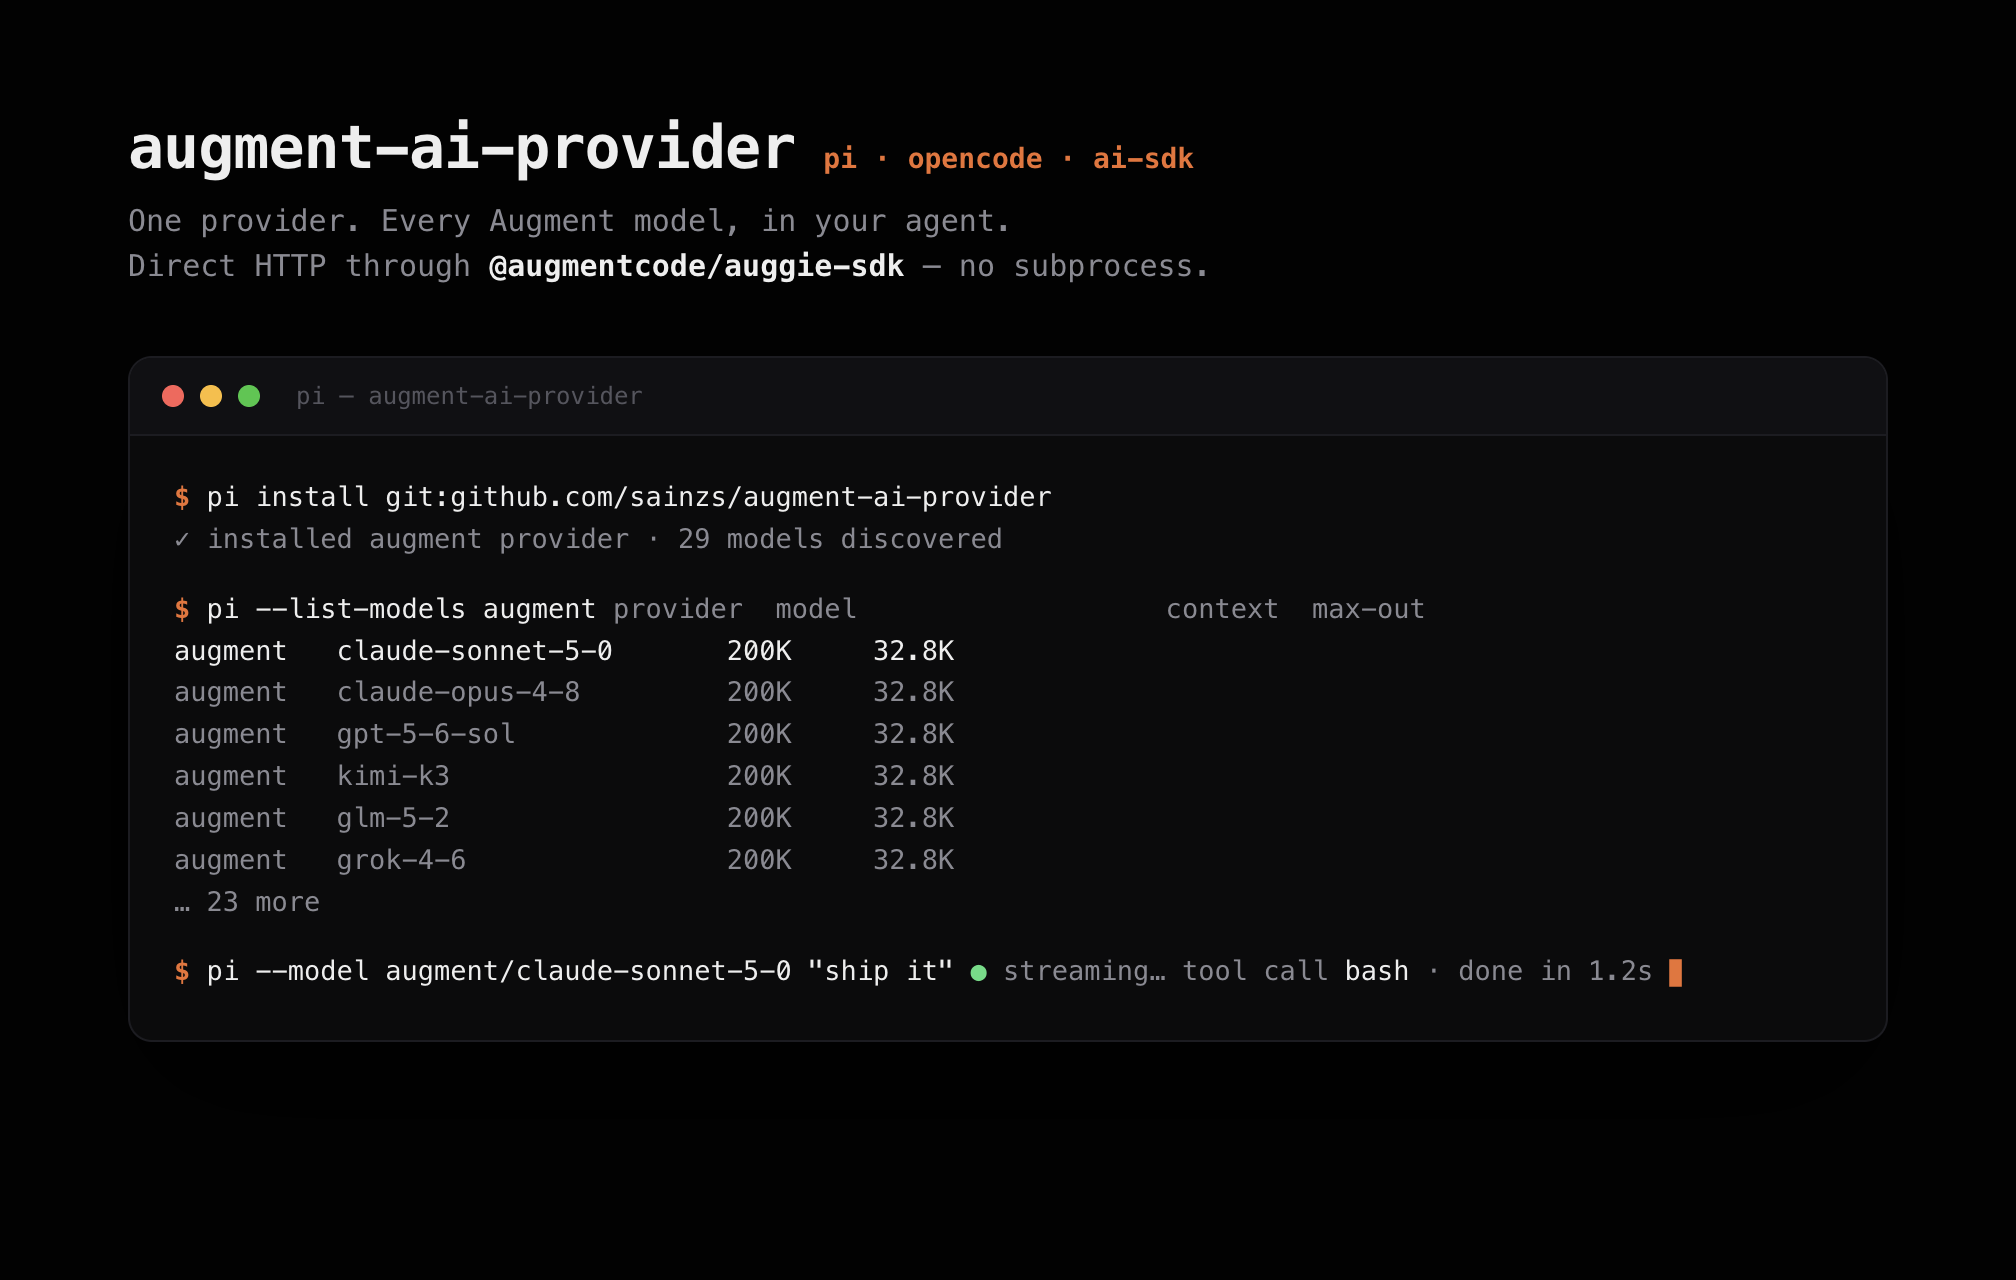
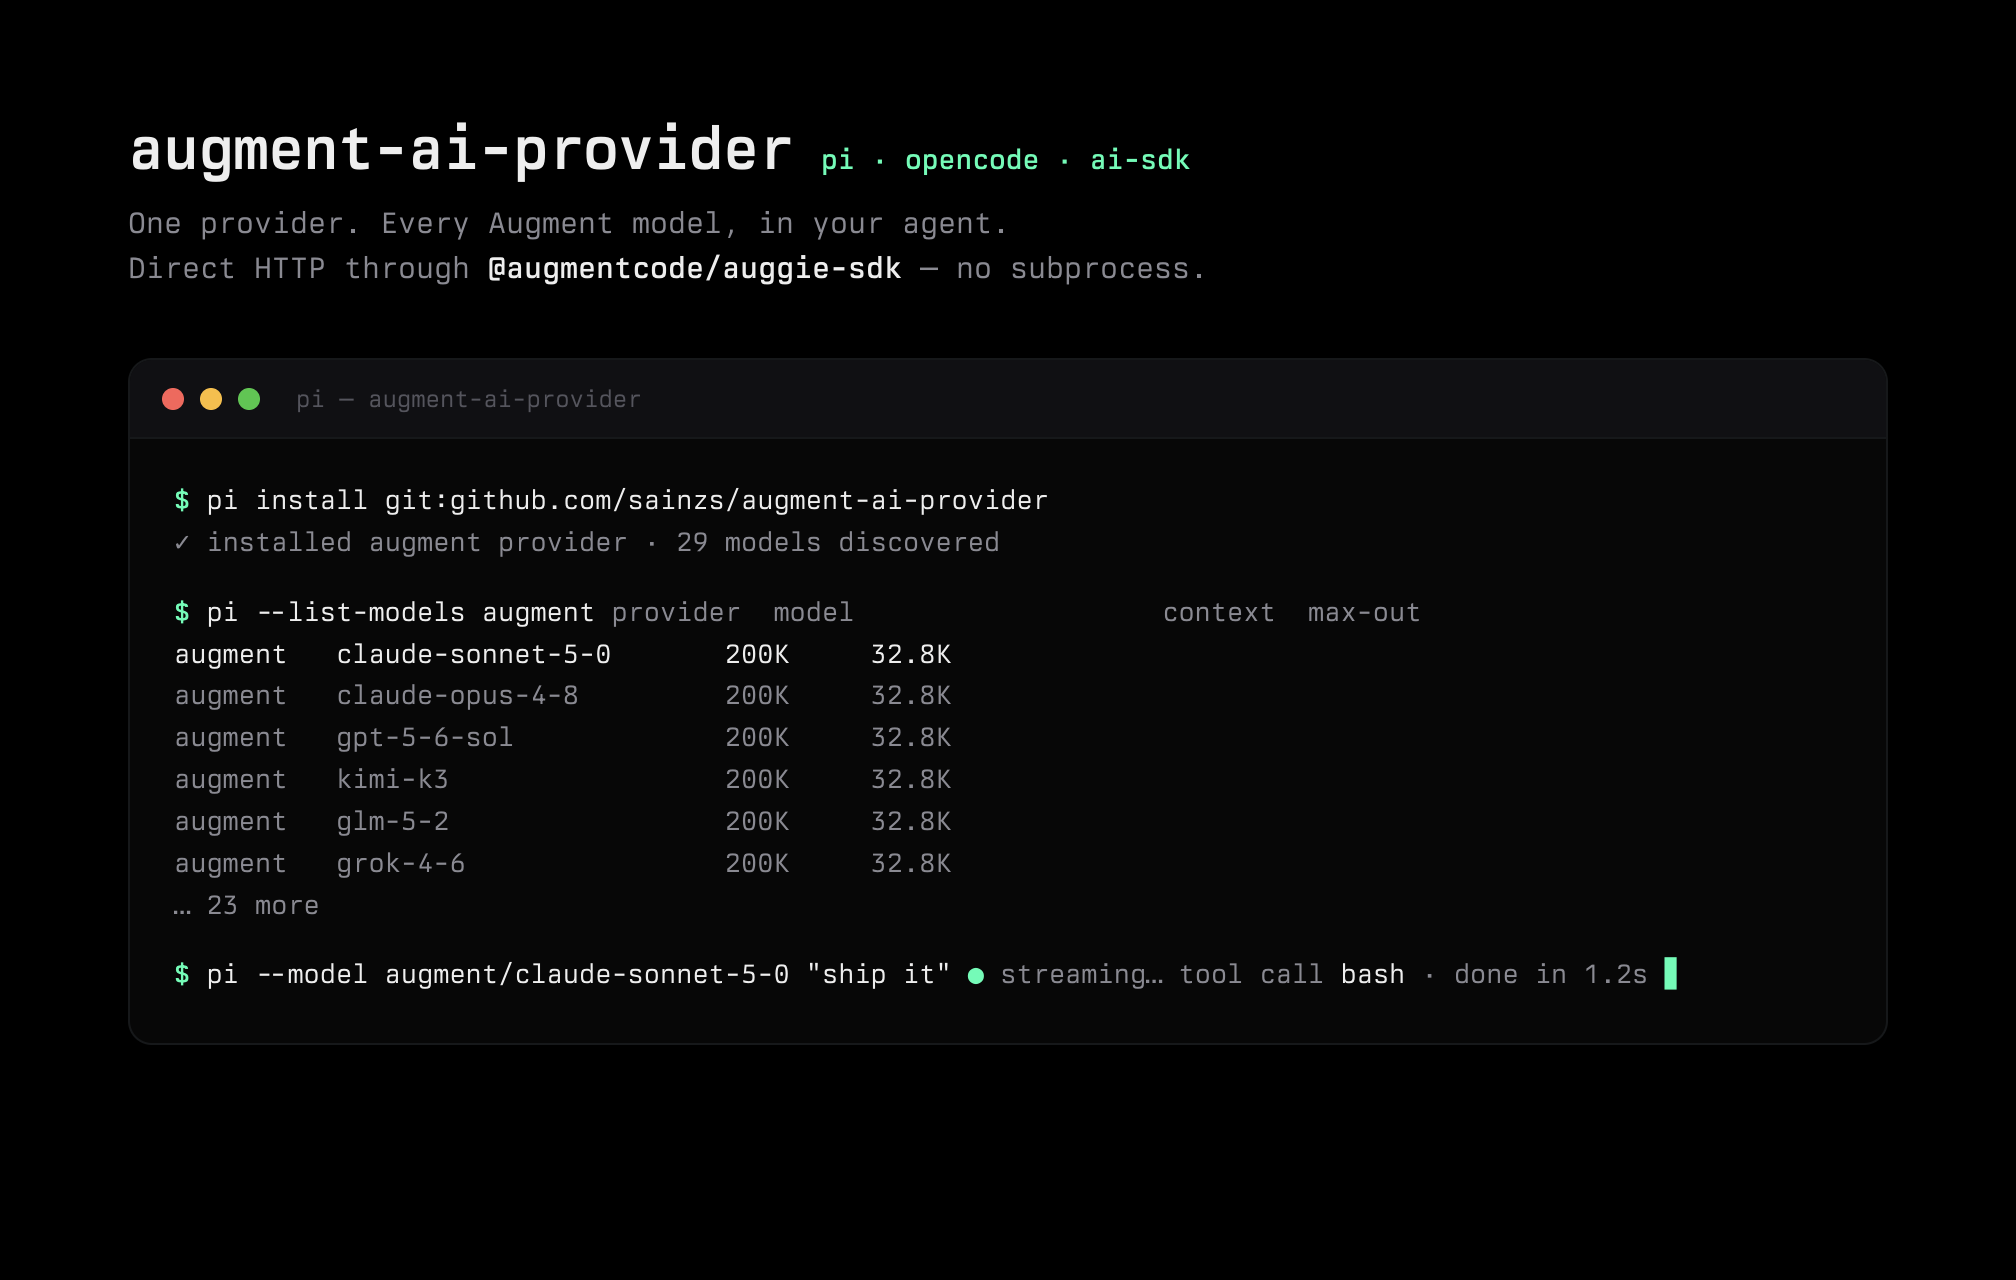
Use my colors and font for the hero
- Pure black #000000 base, Random Access mint #00ffb2 accent
  (replacing Factory's orange), matching my theme system
- Berkeley Mono Variable, my terminal font
- License badge now mint to match

diff --git a/assets/hero.html b/assets/hero.html
@@ -6,19 +6,19 @@
 <title>augment-ai-provider</title>
 <style>
   :root {
-    --bg: #020202;
-    --panel: #0b0b0d;
+    --bg: #000000;
+    --panel: #070707;
     --ink: #eeeeee;
     --dim: #8a8a93;
     --faint: #55555e;
-    --accent: #ef6f2e;   /* hot orange */
-    --green: #4ade80;
-    --border: #1c1c21;
+    --accent: #00ffb2;   /* Random Access mint */
+    --green: #00ffb2;
+    --border: #16181a;
   }
   * { box-sizing: border-box; }
   html, body { margin: 0; padding: 0; background: var(--bg); }
   body {
-    font-family: "SF Mono", ui-monospace, "JetBrains Mono", Menlo, monospace;
+    font-family: "Berkeley Mono Variable", "Berkeley Mono", ui-monospace, Menlo, monospace;
     color: var(--ink);
     padding: 56px 64px;
     -webkit-font-smoothing: antialiased;

diff --git a/README.md b/README.md
@@ -2,7 +2,7 @@
 
 [![CI](https://github.com/sainzs/augment-ai-provider/actions/workflows/ci.yml/badge.svg)](https://github.com/sainzs/augment-ai-provider/actions/workflows/ci.yml)
 [![npm](https://img.shields.io/npm/v/augment-ai-provider.svg?style=flat-square)](https://www.npmjs.com/package/augment-ai-provider)
-[![License](https://img.shields.io/badge/License-MIT-ef6f2e.svg?style=flat-square)](LICENSE)
+[![License](https://img.shields.io/badge/License-MIT-00ffb2.svg?style=flat-square)](LICENSE)
 
 Use [Augment Code](https://augmentcode.com) models in [pi](https://pi.dev), OpenCode, and OpenCode 2. Direct HTTP through `@augmentcode/auggie-sdk` — no local `auggie` subprocess.
 
